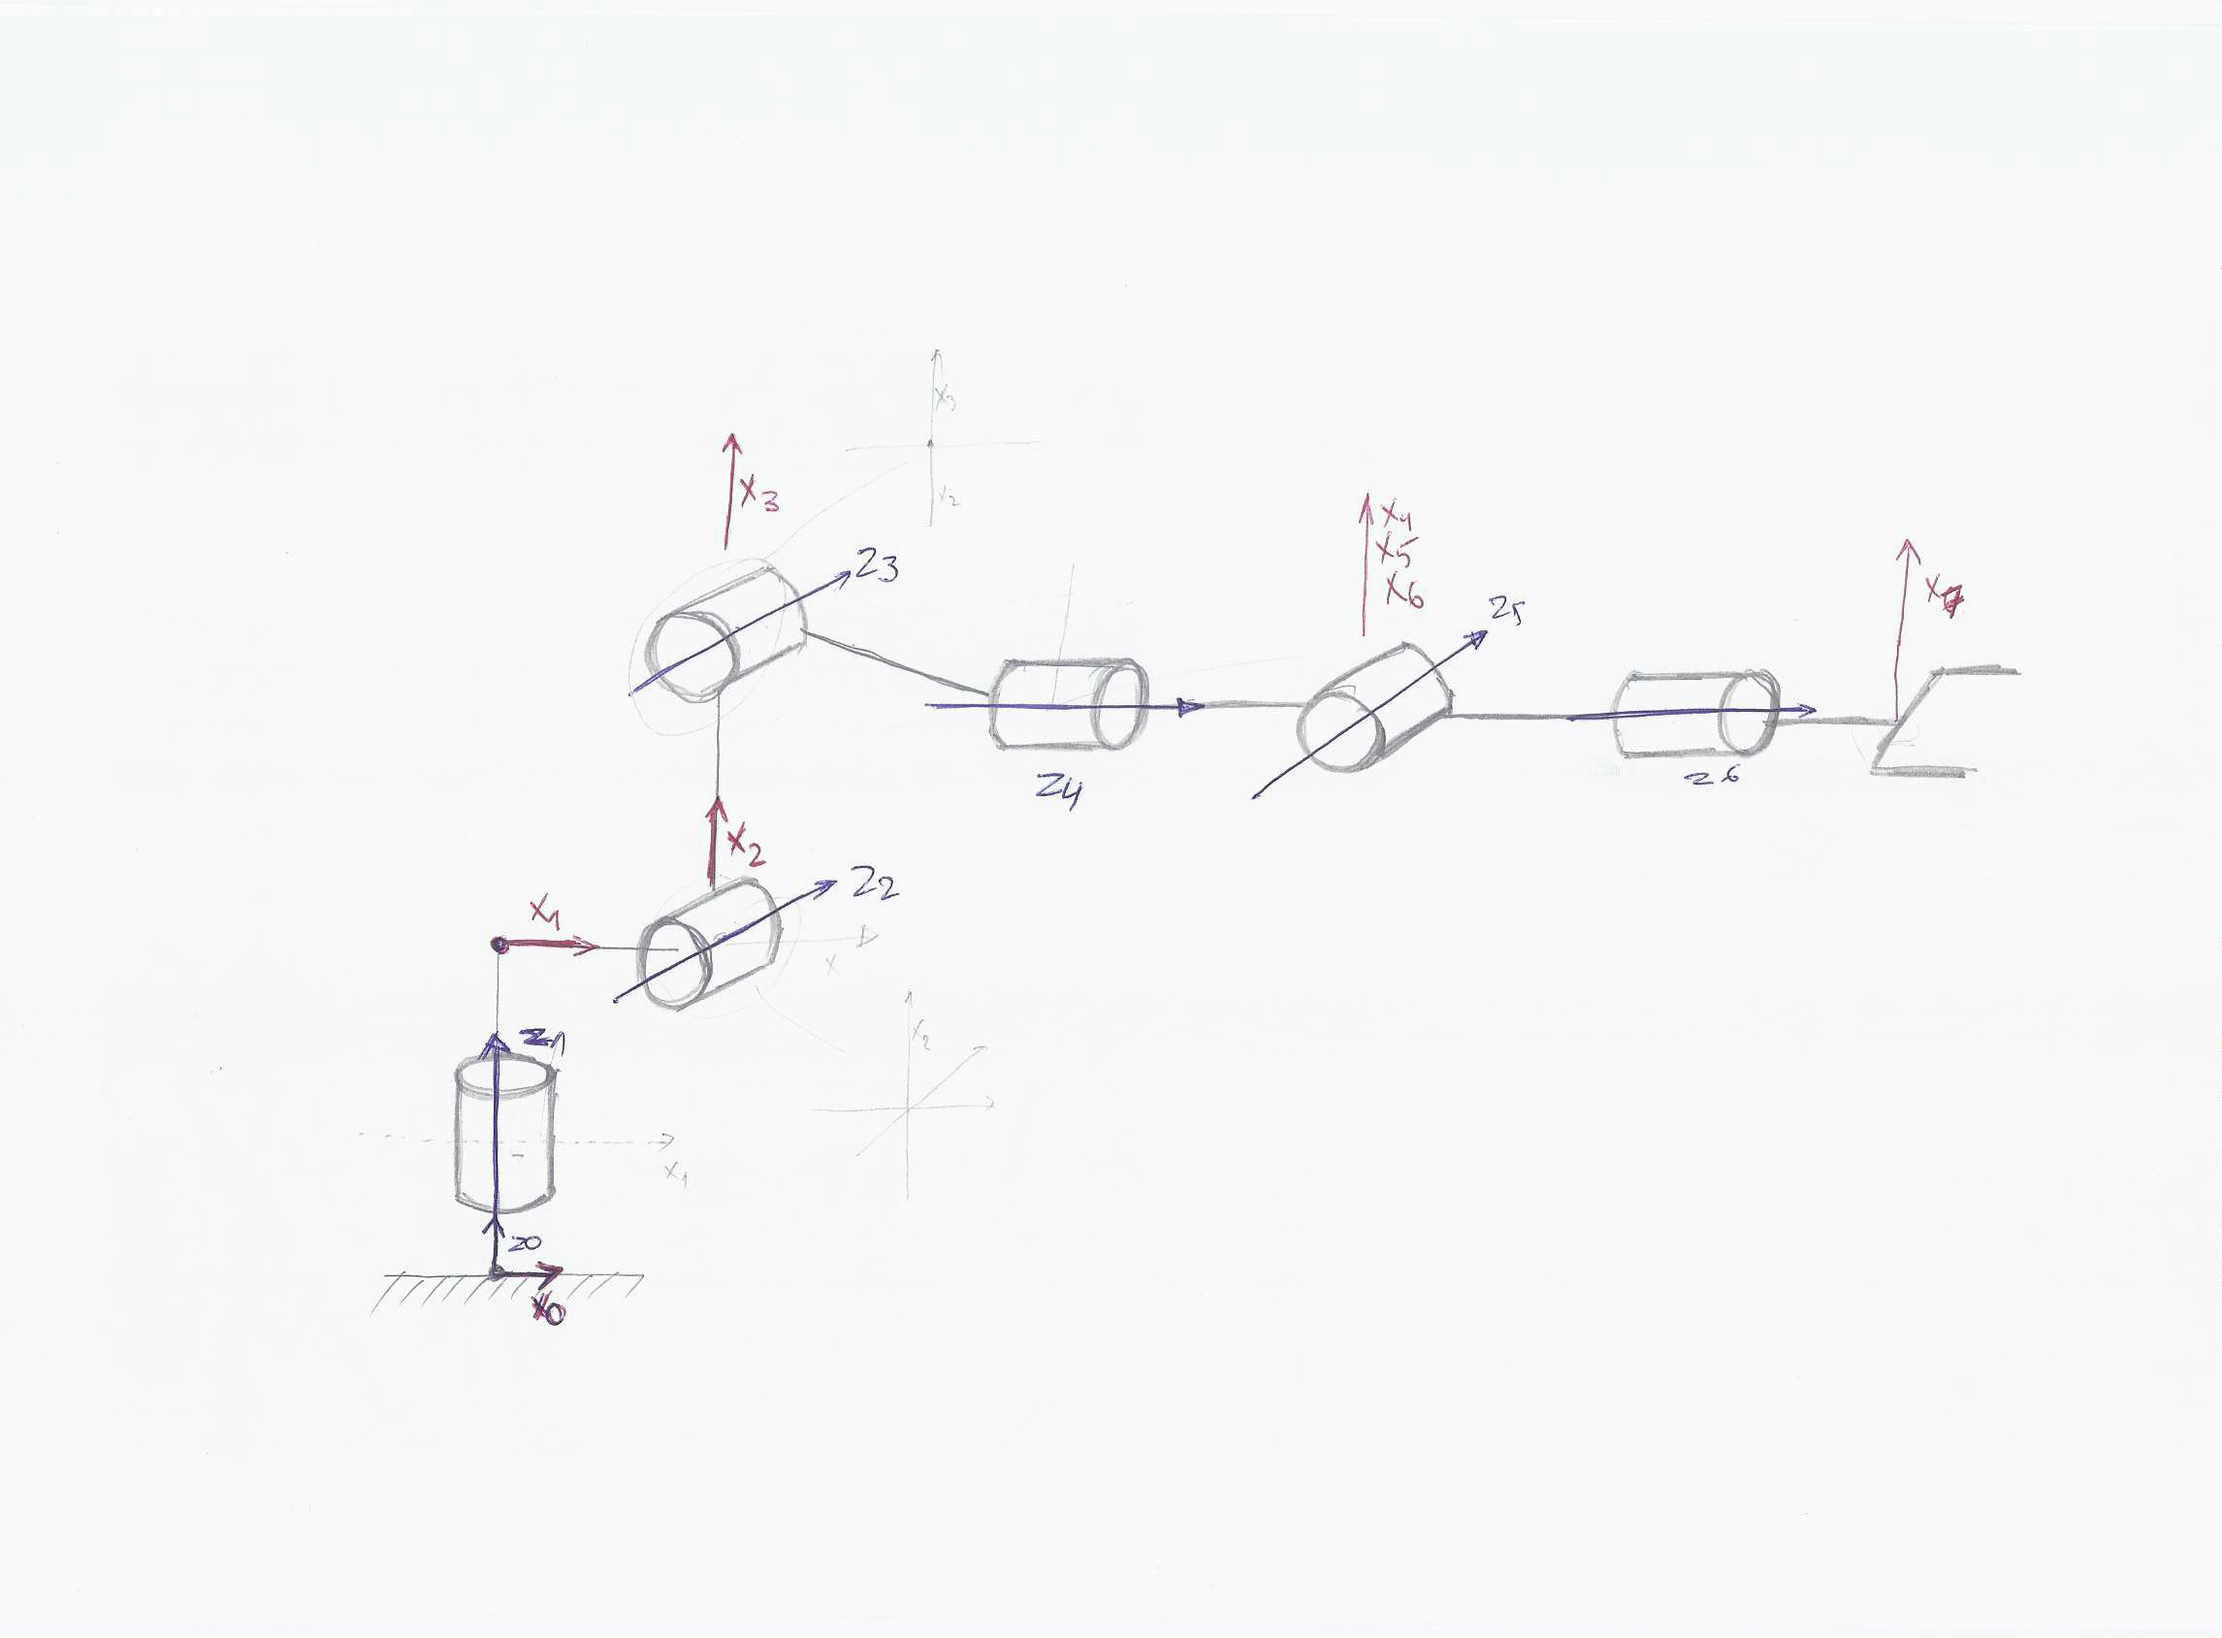
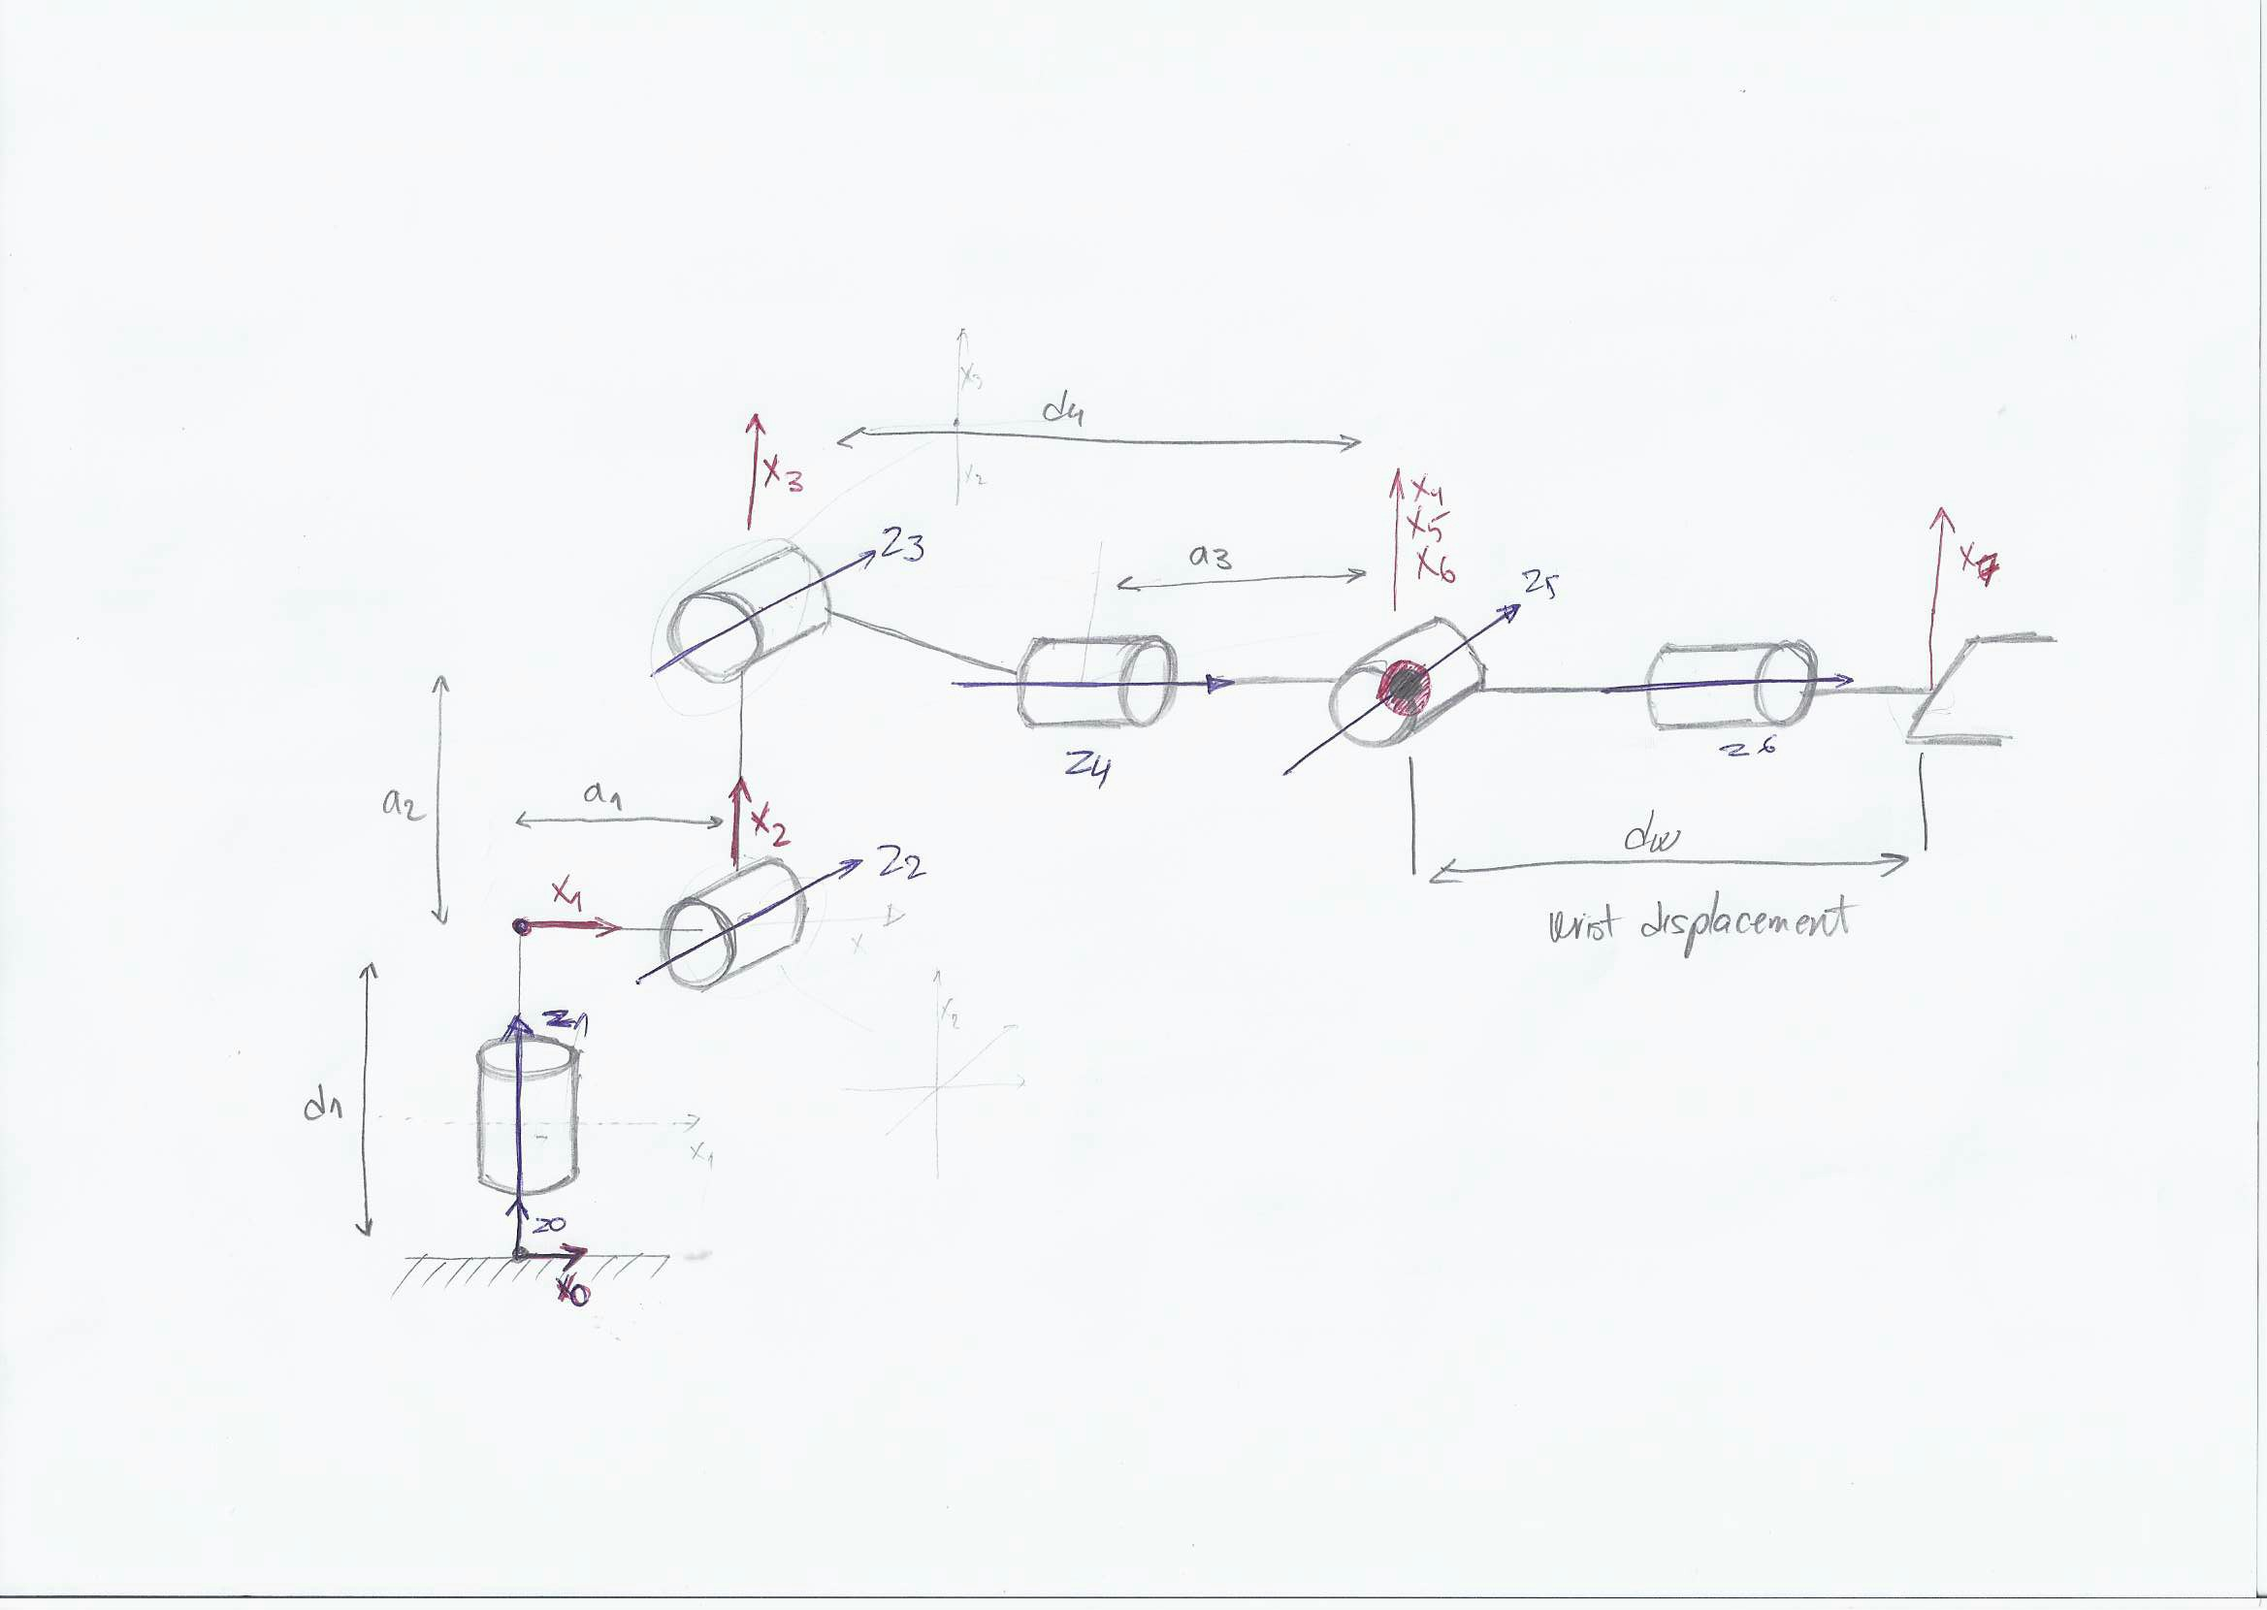
More details on DH

diff --git a/README.md b/README.md
@@ -31,7 +31,7 @@ You're reading it!
 ### Kinematic Analysis
 #### 1. Run the forward_kinematics demo and evaluate the kr210.urdf.xacro file to perform kinematic analysis of Kuka KR210 robot and derive its DH parameters.
 
-
+Based on URDF.XARCO file the DH parameters were extracted as below:
 
 |   i   | alpha(i-1) | a(i-1) | d(i)  | theta(i) |
 | :---: | :--------: | :----: | :---: | :------: |
@@ -43,9 +43,21 @@ You're reading it!
 | **6** |   -pi/2    |   0    |   0   |    q6    |
 | **7** |     0      |   0    | 0.303 |    0     |
 
+worth noting that from DH-parameters, one can make the scratch of robot arm, following rules:
 
+![alt text][image14]
+
+![alt text][image19]
 
 #### 2. Using the DH parameter table you derived earlier, create individual transformation matrices about each joint. In addition, also generate a generalized homogeneous transform between base_link and gripper_link using only end-effector(gripper) pose.
+
+So, for forward kinematics, i used the homogeneous matrix:
+
+![alt text][image12]
+
+![alt text][image13]
+
+![alt text][image15]
 
 ```python
 def homogen(alpha, a, d, phi):
@@ -67,8 +79,6 @@ T5_6 = homogen(-pi/2,      0,     0,      q6)
 T6_G = homogen(    0,      0, 0.303,       0)
 ```
 
-
-
 ```python
 def pickleit(M, filename):
     if os.path.isfile(filename):
@@ -82,8 +92,6 @@ def pickleit(M, filename):
         file.close()      
     return N
 ```
-
-
 
 ```python
 T0_3 = pickleit(T0_1*T1_2*T2_3, "T0_3.pckl")
